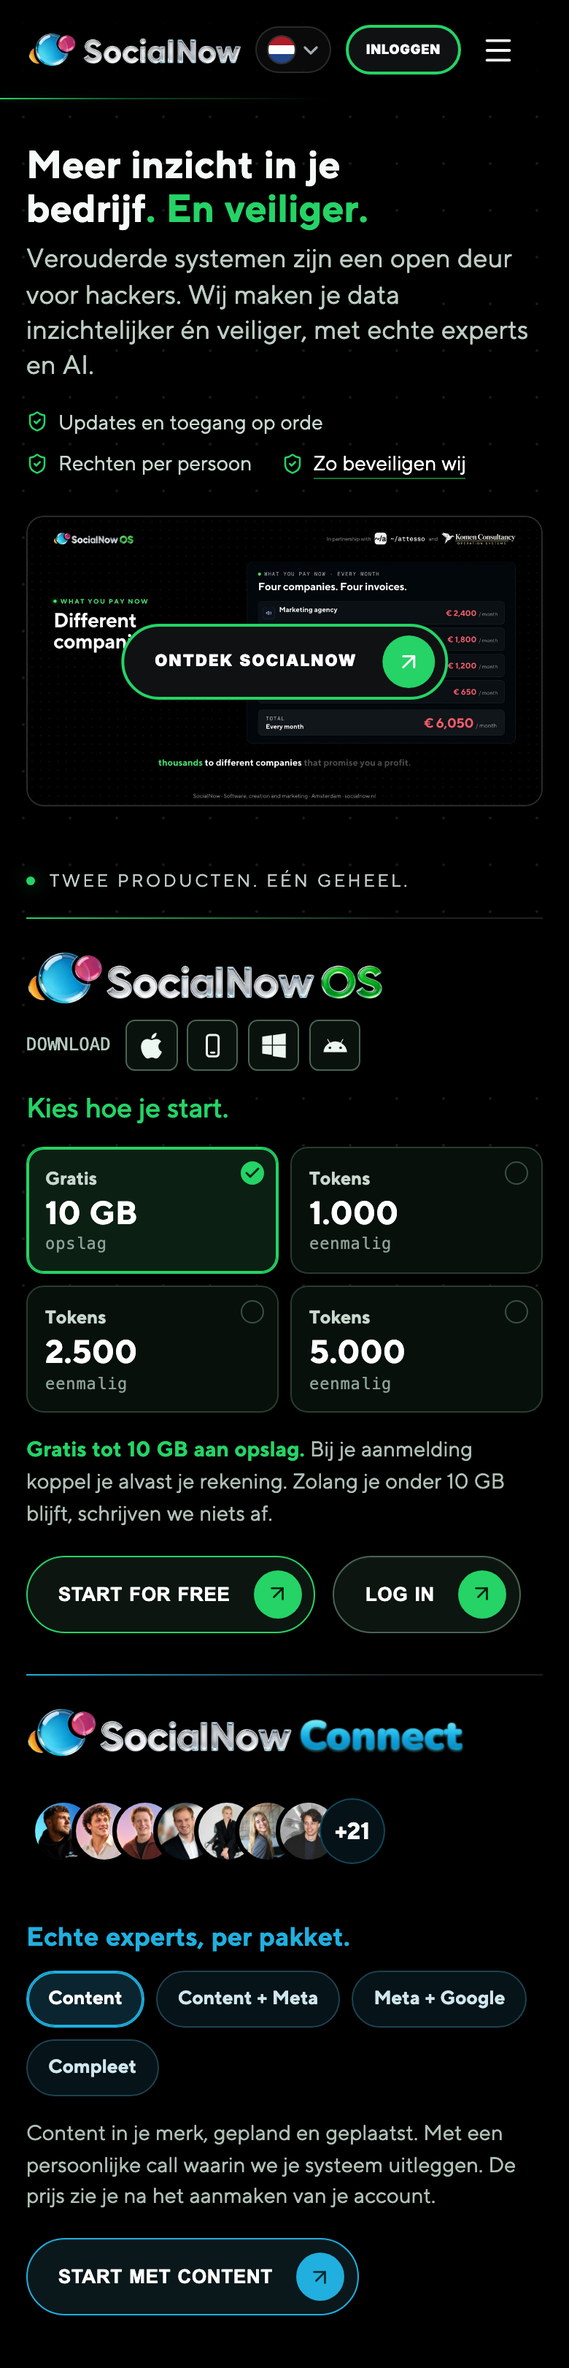
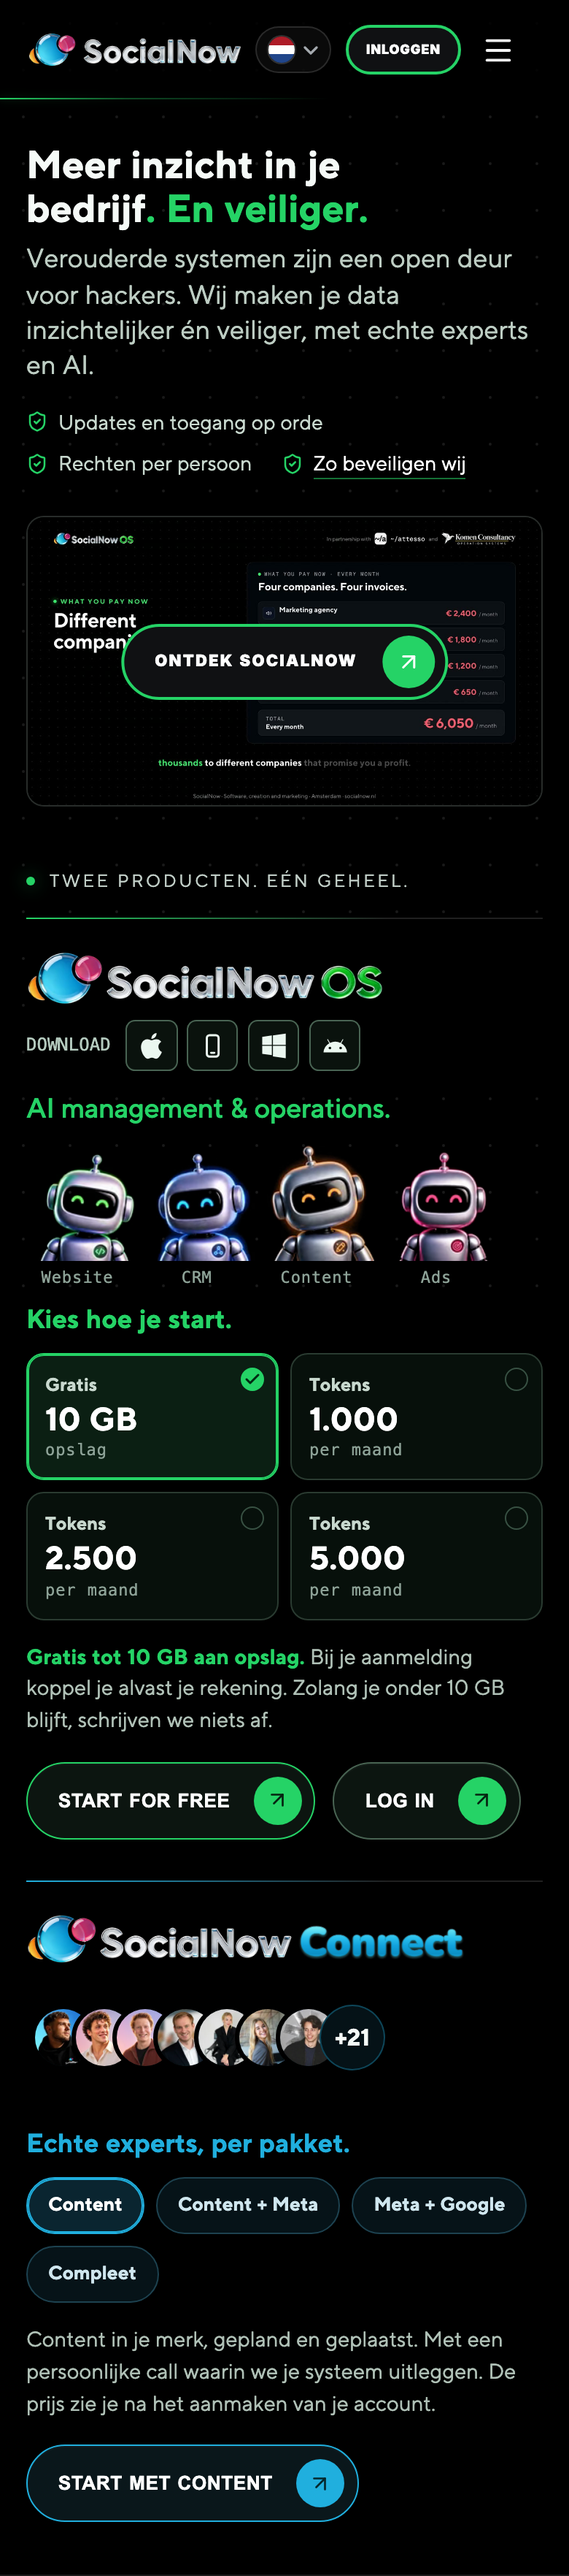
Variant B: tokens per maand, bewegende Milo's terug

diff --git a/proposal/HeaderBestaand.tsx b/proposal/HeaderBestaand.tsx
@@ -5,6 +5,7 @@ import { klein } from "./licht";
 import { people } from "./content";
 import { GRATIS_OS_URL } from "./os-entry";
 import ExplainerPlayer from "./ExplainerPlayer";
+import { MiloMotion } from "./motion";
 import { ConnectLogo, Downloads, Filters, faces } from "./HomeHeader";
 import "./home-header-approved.css";
 import "./home-header-choice.css";
@@ -18,6 +19,8 @@ import "./header-bestaand.css";
 // Daarom dezelfde opzet als variant A (HomeHeader), met een pakketkeuze in plaats van de Milo's en de Connect-gezichten
 // plus hulppakketten. Geen €10.000 meer in de header.
 //
+// Daarna: "Verder is alles maandelijks." en "liever de bewegende robots weer terug": tokens per maand, de vier Milo's
+// als bewegende video (MiloMotion) zoals op de rest van de site.
 // Daarna: "Die prijzen mag na het account aanmaken." Dus geen bedragen in de header: alleen de pakketten. De
 // tokenpakketten zijn die uit de OS-code (Flyinghighscalingup/socialnow-app, api/_studio-tokens.js, TOKEN_BUNDLES:
 // 1.000, 2.500 en 5.000 tokens). De hulppakketten zijn die van /prijzen (Pricing.tsx). Het gekozen pakket gaat als ?pakket= mee naar de aanmelding van het OS; het OS
@@ -27,10 +30,12 @@ type Doel = "gratis_os" | "connect" | "explainer" | "veiligheid";
 
 const START = [
   { id: "gratis", naam: "Gratis", groot: "10 GB", sub: "opslag" },
-  { id: "tokens-1000", naam: "Tokens", groot: "1.000", sub: "eenmalig" },
-  { id: "tokens-2500", naam: "Tokens", groot: "2.500", sub: "eenmalig" },
-  { id: "tokens-5000", naam: "Tokens", groot: "5.000", sub: "eenmalig" },
+  { id: "tokens-1000", naam: "Tokens", groot: "1.000", sub: "per maand" },
+  { id: "tokens-2500", naam: "Tokens", groot: "2.500", sub: "per maand" },
+  { id: "tokens-5000", naam: "Tokens", groot: "5.000", sub: "per maand" },
 ];
+const MILOS = [{ rol: "website", naam: "Website" }, { rol: "crm", naam: "CRM" }, { rol: "content", naam: "Content" }, { rol: "ads", naam: "Ads" }];
+
 // Ook een hulppakket kies je bij het aanmaken van je account; de prijs volgt daarna in het OS.
 const HULP = [
   { id: "hulp-content", naam: "Content", wie: "Content in je merk, gepland en geplaatst" },
@@ -64,7 +69,9 @@ export default function HeaderBestaand({ meet }: { meet: (doel: Doel) => void })
             <div className="services">
               <article className="service os">
                 <div className="logo-row"><img className="os-logo" src="/images/SocialNow-OS-Logo-transparant.webp" alt="SocialNow OS" /><Downloads /></div>
-                <h2>Kies hoe je start.</h2>
+                <h2>AI management &amp; operations.</h2>
+                <div className="visual milos bs-milos">{MILOS.map(m => <figure key={m.rol}><MiloMotion role={m.rol} name={`Milo ${m.naam}`} maat={128} /><figcaption>{m.naam}</figcaption></figure>)}</div>
+                <p className="bs-kop-start">Kies hoe je start.</p>
                 <div className="bs-keuze" role="radiogroup" aria-label="Kies je startpakket" onKeyDown={e => pijltjes(e, START.map(x => x.id), start, setStart)}>
                   {START.map(s => (
                     <button key={s.id} type="button" role="radio" aria-checked={start === s.id} tabIndex={start === s.id ? 0 : -1} data-id={s.id} className="bs-pakket" onClick={() => setStart(s.id)}>
@@ -78,7 +85,7 @@ export default function HeaderBestaand({ meet }: { meet: (doel: Doel) => void })
                 <p className="bs-uitleg">
                   {start === "gratis"
                     ? <><strong>Gratis tot 10 GB aan opslag.</strong> Bij je aanmelding koppel je alvast je rekening. Zolang je onder 10 GB blijft, schrijven we niets af.</>
-                    : <><strong>Gratis tot 10 GB, plus {gekozen.groot} tokens voor de Studio.</strong> Eenmalig, geen abonnement. De prijs zie je nadat je je account hebt aangemaakt.</>}
+                    : <><strong>Gratis tot 10 GB, plus {gekozen.groot} tokens per maand voor de Studio.</strong> De prijs zie je nadat je je account hebt aangemaakt.</>}
                 </p>
                 <div className="action os-account-actions">
                   <a className="pill" href={`${GRATIS_OS_URL}?pakket=${start}`} onClick={() => meet("gratis_os")}><span>Start for free</span><span className="arrow"><ArrowUpRight size={17} /></span></a>

diff --git a/proposal/header-bestaand.css b/proposal/header-bestaand.css
@@ -1,5 +1,9 @@
 /* HeaderBestaand.tsx, variant B voor bestaande bedrijven — 18 oktober 2026. Bovenop home-header-choice.css. */
 .sn-site .sn-bestaand .service h2{text-align:left}
+.sn-site .sn-bestaand .bs-milos{justify-content:flex-start}
+.sn-site .sn-bestaand .bs-milos .h-milo-animated{position:relative;display:block;width:80px;height:80px;margin:auto}
+.sn-site .sn-bestaand .bs-milos .h-milo-animated>:is(img,video){position:absolute;inset:0;width:80px;height:80px;object-fit:contain;background:transparent}
+.sn-site .sn-bestaand .bs-kop-start{margin:10px 0 10px;font-size:18px;font-weight:700;color:var(--green);text-align:left}
 .sn-site .sn-bestaand .bs-keuze{display:grid;grid-template-columns:repeat(4,minmax(0,1fr));gap:8px;margin:4px 0 0}
 @media(max-width:560px){.sn-site .sn-bestaand .bs-keuze{grid-template-columns:repeat(2,minmax(0,1fr))}}
 .sn-site .sn-bestaand .bs-pakket{position:relative;display:grid;gap:2px;justify-items:start;padding:12px 12px 11px;border:1px solid #2a3b31;border-radius:12px;background:#07100b;color:#d6e5dc;text-align:left;cursor:pointer;transition:border-color .2s,background .2s}
